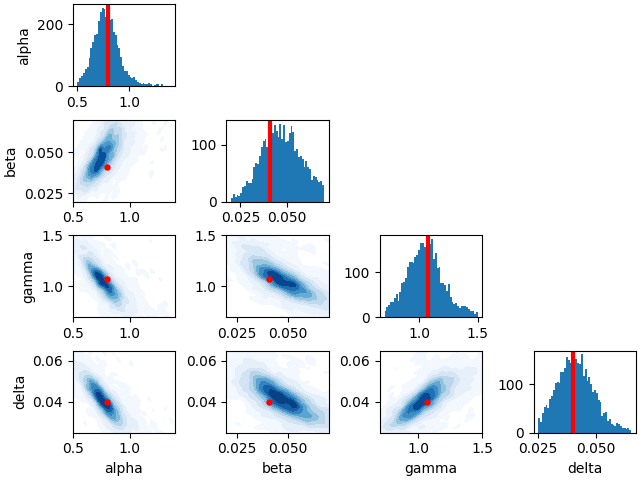
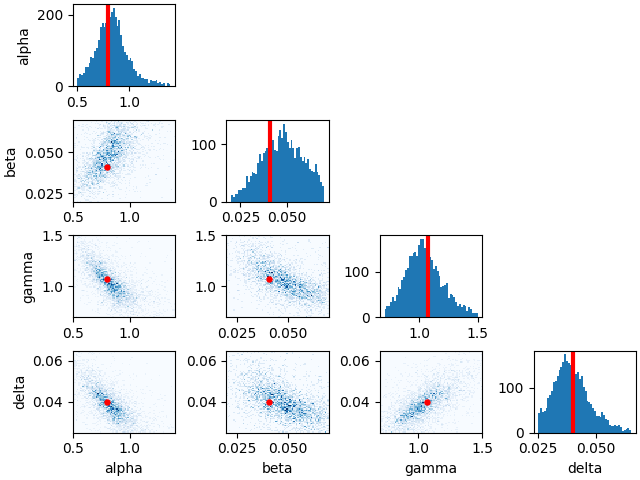
generic commit

diff --git a/scripts/transport/kvae_flow_alt.py b/scripts/transport/kvae_flow_alt.py
@@ -709,7 +709,7 @@ def vl_exp(N=4000, Yd=18, normal=True, exp_name='kvl_exp', n_transports=100,  N_
                     if i < j:
                         x, y = slice_sample[:, torch.tensor([i, j]).long()].T
                         plt_range = [ranges[key_i], ranges[key_j]]
-                        plt.hist2d(x,y, density=True, bins = 75, range = plt_range, cmap = 'Blues')
+                        plt.hist2d(x,y, density=True, bins = 75, range = plt_range)
                         #kdeplot(x=x, y=y, fill=True, bw_adjust=0.4, cmap='Blues')
                         # plt.scatter(x=slice_val[i], y=slice_val[j], s=13, color='red')
                         plt.scatter(x=slice_val[i], y=slice_val[j], s=13, color='red')

diff --git a/scripts/transport/c_transport.py b/scripts/transport/c_transport.py
@@ -641,7 +641,7 @@ def vl_exp(N=4000, Yd=18, normal=True, exp_name='kvl_exp', n_transports=100, N_p
                     if i < j:
                         x, y = slice_sample[:, torch.tensor([i, j]).long()].T
                         plt_range = [ranges[key_i], ranges[key_j]]
-                        plt.hist2d(x, y, density=True, bins=75, range=plt_range, cmap='Blues')
+                        plt.hist2d(x, y, density=True, bins=75, range=plt_range)
                         #kdeplot(x=x, y=y, fill=True, bw_adjust=0.4, cmap='Blues')
                         # plt.scatter(x=slice_val[i], y=slice_val[j], s=13, color='red')
                         plt.scatter(x=slice_val[i], y=slice_val[j], s=13, color='red')
